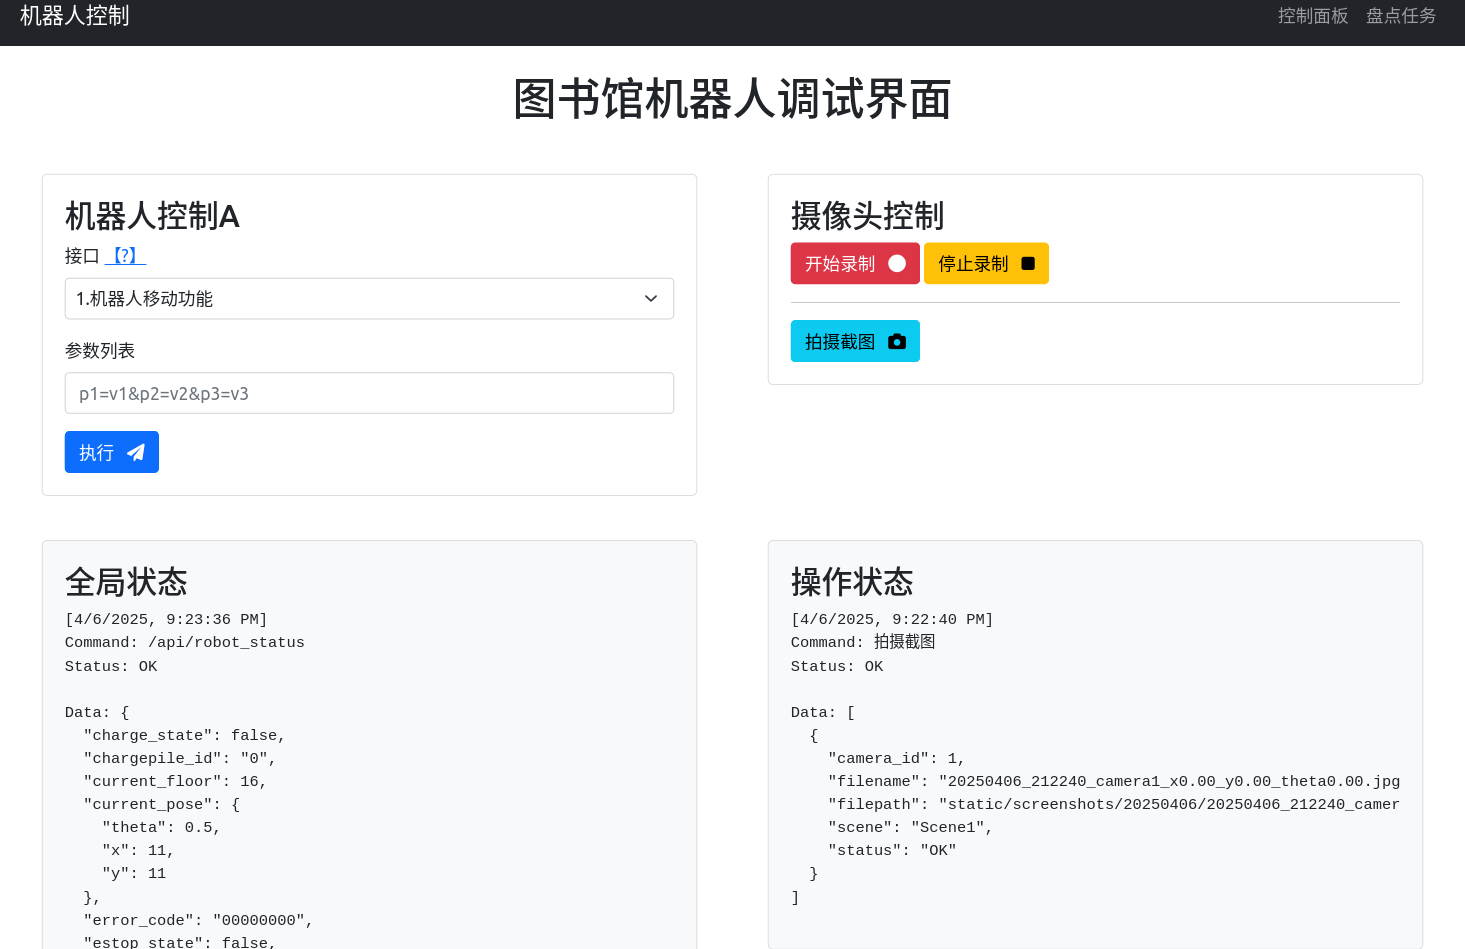
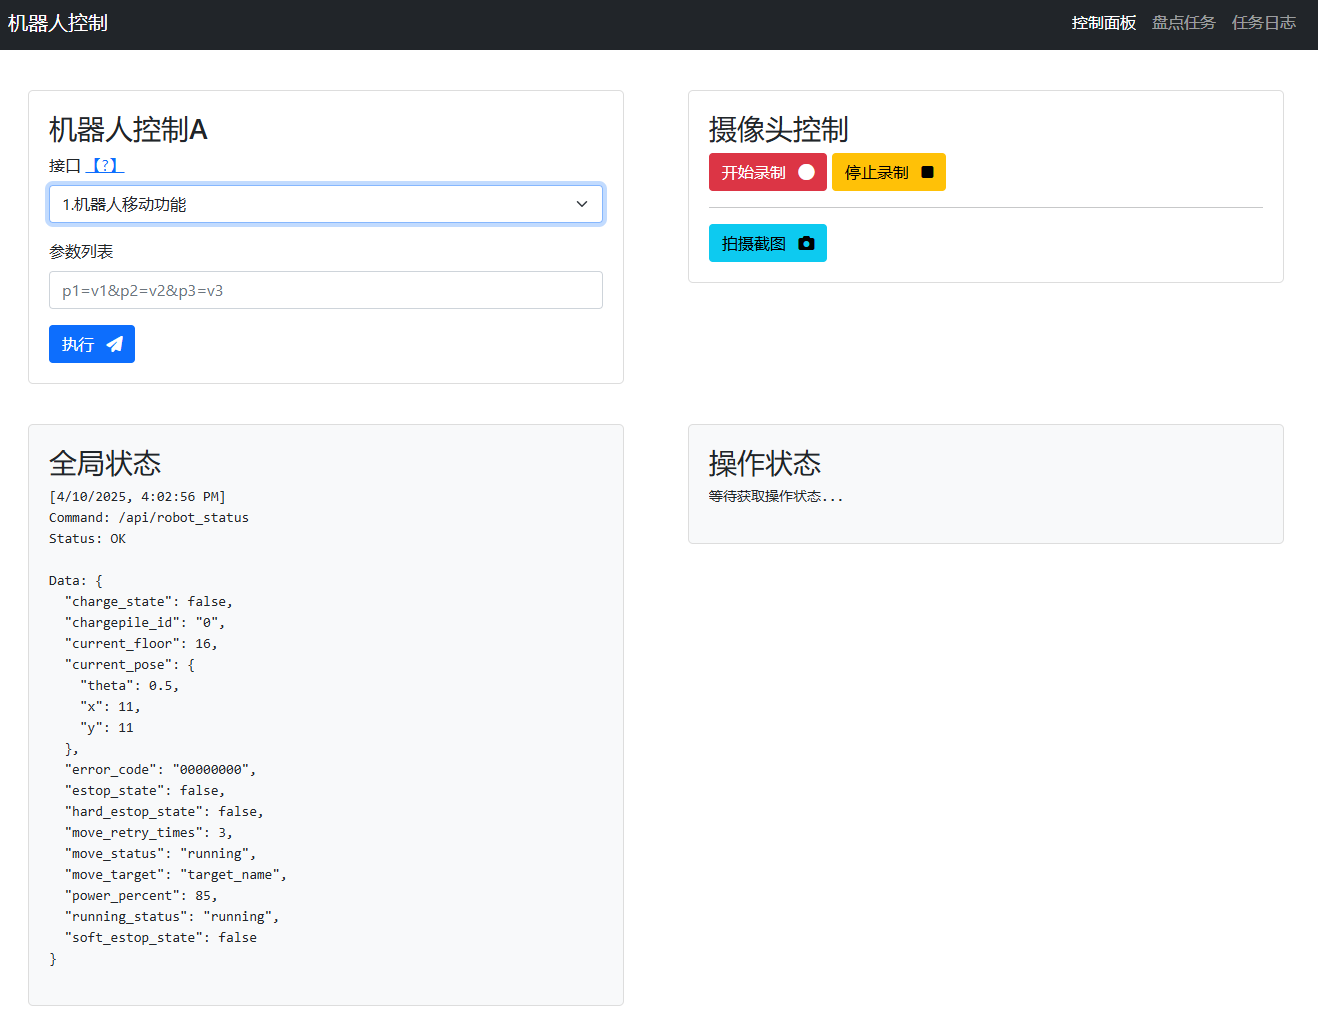
a

diff --git a/README.md b/README.md
@@ -115,6 +115,8 @@
 
 ![控制面板](./docs/p1.png)
 ![盘点任务](./docs/p2.png)
+![任务日志](./docs/p3.png)
+![日志详情](./docs/p4.png)
 
 
 
